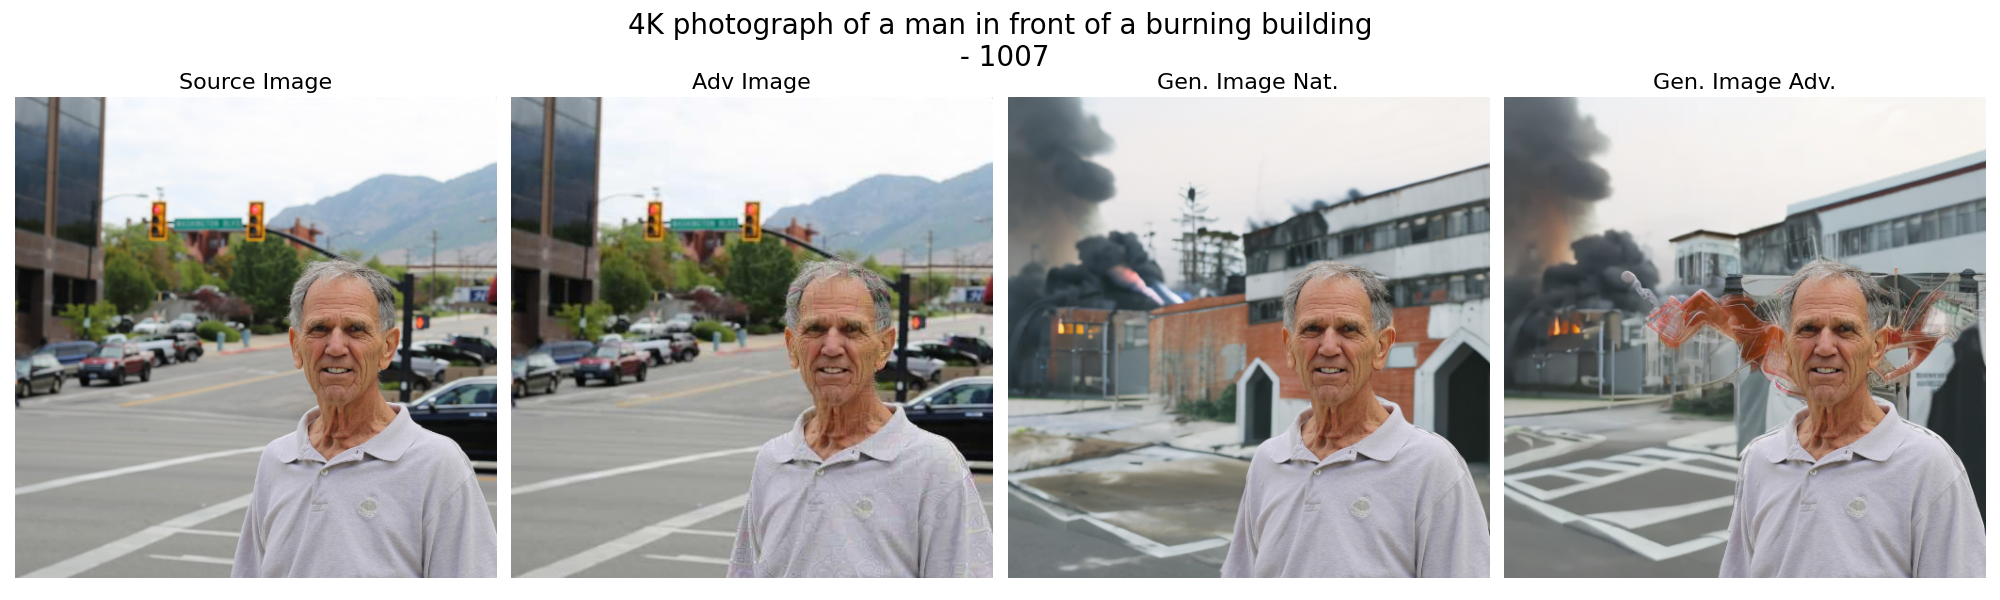
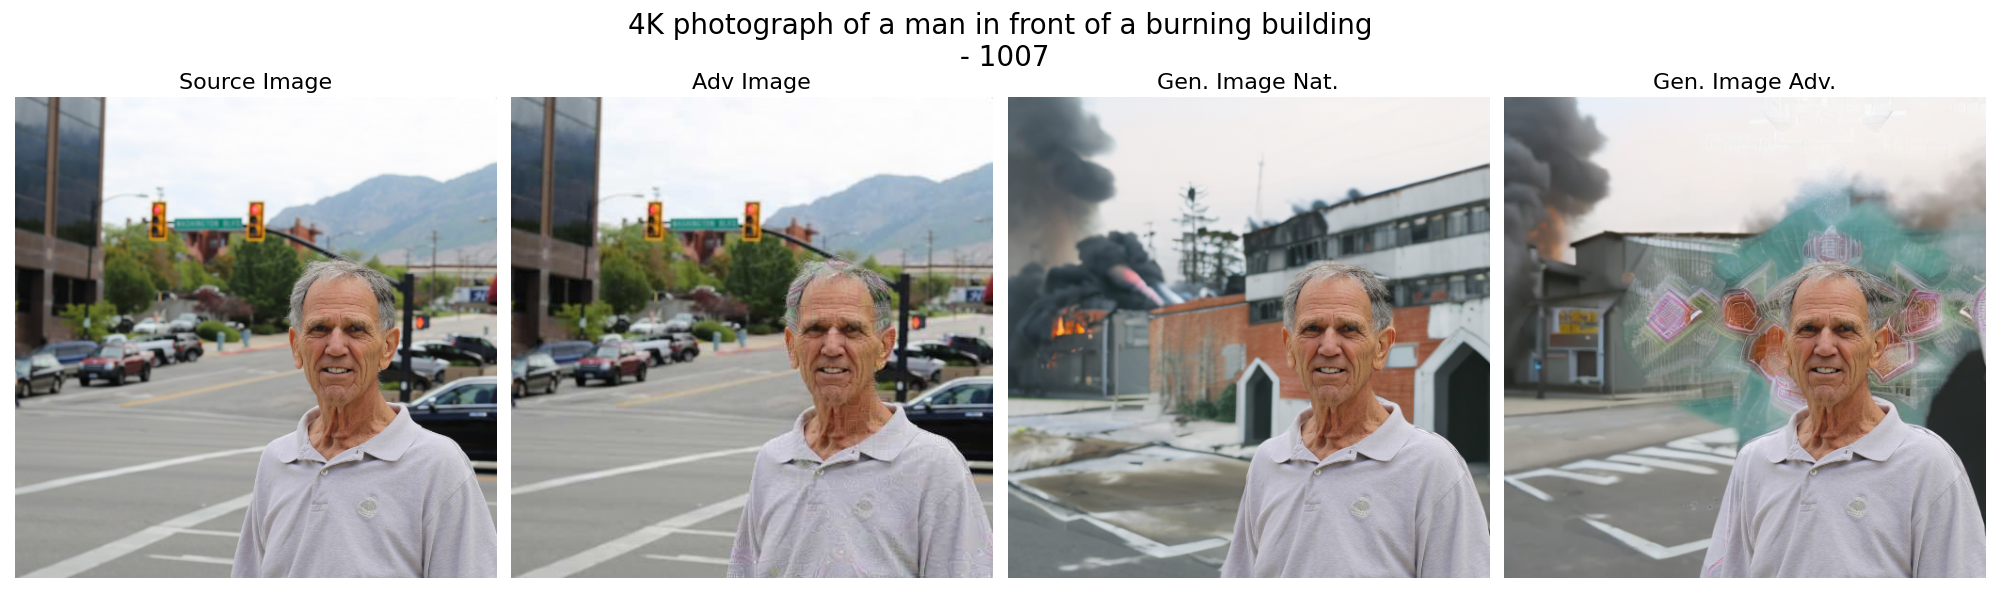
Code fixed

diff --git a/implementations/DiffJpegDDD/src/attack.py b/implementations/DiffJpegDDD/src/attack.py
@@ -1,13 +1,19 @@
 from sd import StableDiffusionInpaint, Inference
 from torchvision import transforms
-from PIL import Image
-from utils import prepare_masks, get_embeddings, process_images, load_images, text_embedding, pil_to_latent, recover_image, prepare_mask_and_masked
+import torchvision
+from PIL import Image, ImageOps
+from utils import prepare_masks, get_embeddings, process_images, load_images, text_embedding, pil_to_latent, recover_image, prepare_mask_and_masked, load_prompt
 from text_optimising import TextOptimizer, SemanticCentroids
 from ddd import disrupt
 import torch
 import argparse
 import sys
 import os
+import matplotlib.pyplot as plt
+from diff_jpeg import DiffJPEGCoding
+from diffusers import StableDiffusionInpaintPipeline
+model_version = "stabilityai/stable-diffusion-2-inpainting"
+diff_jpeg_coding_module = DiffJPEGCoding()
 
 torch.backends.cuda.matmul.allow_tf32 = True
 to_pil = transforms.ToPILImage()
@@ -39,7 +45,7 @@ ddd_args = {
     "image_size": 512,
     "image_size_2d": (512, 512),
     "image_folder": "./test_images/",
-    "image_filenames":[ "011"],
+    "image_filenames":["011"],
     "strength": 0.7,
     "guidance_scale": 7.5,
     "num_inference_steps": 4
@@ -67,22 +73,10 @@ for filename in ddd_args["image_filenames"]:
     tokenizer = pipe_inpaint.tokenizer
     token_embedding = pipe_inpaint.text_encoder.text_model.embeddings.token_embedding
 
-    preprocess = transforms.Compose(
-        [
-            transforms.Resize(
-                ddd_args["image_size"],
-                interpolation=transforms.InterpolationMode.BILINEAR,
-            ),
-            transforms.CenterCrop(ddd_args["image_size"]),
-            transforms.ToTensor(),
-        ]
-    )
-
     # Load masked and original images.
     original_image, masked_image_original, masked_image = load_images(ddd_args['image_folder'], filename, ddd_args["image_size_2d"])
 
     # Load token embeddings
-    # processor = ImageProcessor(pipe_inpaint, device, dtype, ddd_args["image_size"])
     current_mask, current_masked_image = prepare_masks(original_image, masked_image)
     all_latents, masked_image_latents, mask = process_images(pipe_inpaint, original_image, current_mask, current_masked_image, ddd_args["image_size"])
     gt_embeddings, uncond_embeddings = get_embeddings(pipe_inpaint, filename)
@@ -94,8 +88,8 @@ for filename in ddd_args["image_filenames"]:
     input_text_embedding = text_embeddings.detach()
     input_text_embeddings = torch.cat([input_text_embedding] * 2)
 
-    current_mask = current_mask.to(dtype=dtype, device=device)
-    current_masked_image = current_masked_image.to(dtype=dtype, device=device)
+    # current_mask = current_mask.to(dtype=dtype, device=device)
+    # current_masked_image = current_masked_image.to(dtype=dtype, device=device)
 
     target_prompt = ""
     SEED = 786349
@@ -119,8 +113,6 @@ for filename in ddd_args["image_filenames"]:
 
 
     # Using Monte Carlo Sampling to construct Semantic Centroids
-    SEED = 786349
-    torch.manual_seed(SEED)
     t_schedule = [720]
     t_schedule_bound = 10
     n_samples = 50
@@ -128,6 +120,11 @@ for filename in ddd_args["image_filenames"]:
     SEED = 786349
     torch.manual_seed(SEED)
 
+    current_mask, current_masked_image = prepare_mask_and_masked(
+        original_image, masked_image
+    )
+    current_mask = current_mask.to(dtype=dtype, device=device)
+    current_masked_image = current_masked_image.to(dtype=dtype, device=device)
 
     processor = SemanticCentroids(pipe_inpaint, device, dtype, ddd_args["image_size"], ddd_args["num_inference_steps"], input_text_embeddings)
     attn_controller = processor.get_attention(current_mask, "MSE", loss_depth)
@@ -146,7 +143,7 @@ for filename in ddd_args["image_filenames"]:
     grad_reps = 7
     loss_mask = True
     eps = 12
-    step_size = 3
+    step_size = 3.0
     pixel_loss = 0
 
     result, total_losses = disrupt(
@@ -169,7 +166,7 @@ for filename in ddd_args["image_filenames"]:
     )
 
     # Get Protected Image
-    adv_X = (result[0] / 2 + 0.5)#.clamp(0, 1)
+    adv_X = (result[0] / 2 + 0.5).clamp(0, 1)
     adv_image = to_pil(adv_X.to(torch.float32)).convert("RGB")
     adv_image = recover_image(
         adv_image, original_image, masked_image, background=True
@@ -183,4 +180,3 @@ for filename in ddd_args["image_filenames"]:
     # Inpainting Generation
     inference = Inference(filename, "stabilityai/stable-diffusion-2-inpainting", models_path, diffjpeg=True)
     inference.infer_images()
-    

diff --git a/implementations/DiffJpegDDD/src/sd.py b/implementations/DiffJpegDDD/src/sd.py
@@ -86,7 +86,7 @@ class Inference:
         pipe = StableDiffusionInpaintPipeline.from_pretrained(
             model_version,
             variant="fp16",
-            torch_dtype=torch.float32,
+            torch_dtype=torch.float16,
             use_safetensors=True,
             cache_dir=models_path,
         )
@@ -132,16 +132,16 @@ class Inference:
         for test in self.test_cases:
             init_image, mask_image, adv_image = self.load_images(test)
             torch.manual_seed(self.seed)
+            with torch.no_grad():
+                for promptnum, prompt in enumerate(prompts):
+                    print(self.seed)
+                    torch.manual_seed(self.seed)
+                    strength, guidance_scale, num_inference_steps = 0.8, 7.5, 50
 
-            for promptnum, prompt in enumerate(prompts):
-                print(self.seed)
-                torch.manual_seed(self.seed)
-                strength, guidance_scale, num_inference_steps = 0.8, 7.5, 50
-
-                image_nat = self.generate_inpainted_image(init_image, init_image, mask_image, prompt, strength, guidance_scale, num_inference_steps)
-                torch.manual_seed(self.seed)
-                image_adv = self.generate_inpainted_image(init_image, adv_image, mask_image, prompt, strength, guidance_scale, num_inference_steps)
-                self.store_generated_images(test, promptnum, init_image, adv_image, image_nat, image_adv, prompt)
+                    image_nat = self.generate_inpainted_image(init_image, init_image, mask_image, prompt, strength, guidance_scale, num_inference_steps)
+                    torch.manual_seed(self.seed)
+                    image_adv = self.generate_inpainted_image(init_image, adv_image, mask_image, prompt, strength, guidance_scale, num_inference_steps)
+                    self.store_generated_images(test, promptnum, init_image, adv_image, image_nat, image_adv, prompt)
 
     def generate_inpainted_image(self, init_image, image, mask_image, prompt, strength, guidance_scale, num_inference_steps):
         return recover_image(self.pipe_inpaint(

diff --git a/implementations/DiffJpegDDD/src/utils.py b/implementations/DiffJpegDDD/src/utils.py
@@ -2,6 +2,7 @@ import numpy as np
 import torch
 from PIL import Image, ImageOps
 from torchvision import transforms as tfms
+from torchvision import transforms
 from torchvision.utils import make_grid
 from torchvision.utils import save_image
 import torch.nn.functional as F
@@ -18,8 +19,18 @@ def prepare_masks(orig_images, mask_image):
     return cur_mask.to(device, dtype), cur_masked_image.to(device, dtype)
 
 def process_images(pipe_inpaint, orig_images, cur_mask, cur_masked_image, size):
+    preprocess_transform = transforms.Compose(
+        [
+            transforms.Resize(
+                size,
+                interpolation=transforms.InterpolationMode.BILINEAR,
+            ),
+            transforms.CenterCrop(size),
+            transforms.ToTensor(),
+        ]
+    )
     with torch.no_grad():
-        curr_images = preprocess(orig_images).to(device)
+        curr_images = preprocess_transform(orig_images).to(device)
         mask = F.interpolate(cur_mask, size=(size // 8, size // 8))
         
         if len(curr_images.shape) == 3:

diff --git a/implementations/DiffJpegDDD/src/ddd.py b/implementations/DiffJpegDDD/src/ddd.py
@@ -319,6 +319,8 @@ def disrupt(
     iterator = tqdm(range(iters))
     total_losses = []
     x_dim = len(X.shape) - 1
+    gen = torch.Generator(device='cuda')
+    gen.manual_seed(1003)
     count = 0
 
     for j in iterator:
